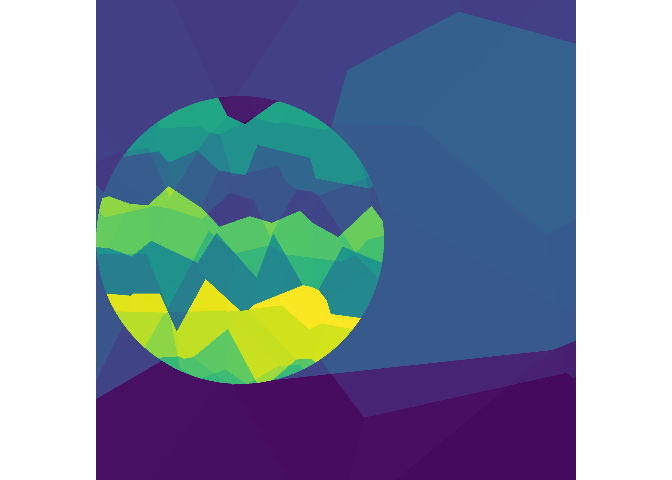
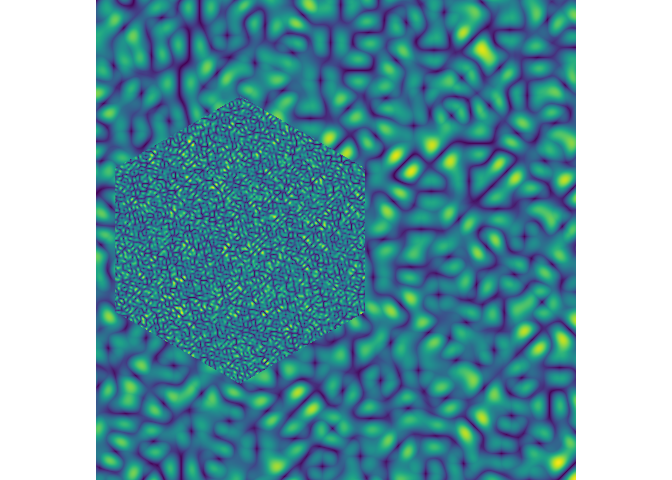
adds scope_hex function factory

diff --git a/docs/index.html b/docs/index.html
@@ -87,21 +87,31 @@
 <p>This is a basic example which shows you how to solve a common problem:</p>
 <div class="sourceCode" id="cb3"><pre class="r"><span class="fu"><a href="https://rdrr.io/r/base/library.html">library</a></span>(<span class="no">scopes</span>)
 
-<span class="no">dat</span> <span class="kw">&lt;-</span> <span class="fu"><a href="reference/scope_grid.html">scope_grid</a></span>(<span class="kw">inner</span> <span class="kw">=</span> <span class="fu"><a href="reference/scope_texture.html">scope_texture</a></span>(<span class="kw">frequency</span> <span class="kw">=</span> <span class="fl">10</span>))
+<span class="no">dat</span> <span class="kw">&lt;-</span> <span class="fu"><a href="reference/scope_grid.html">scope_grid</a></span>(
+  <span class="kw">border</span> <span class="kw">=</span> <span class="fu"><a href="reference/scope_hex.html">scope_hex</a></span>(),
+  <span class="kw">inner</span> <span class="kw">=</span> <span class="fu"><a href="reference/scope_texture.html">scope_texture</a></span>(
+    <span class="kw">noise</span> <span class="kw">=</span> <span class="kw pkg">ambient</span><span class="kw ns">::</span><span class="no"><a href="https://ambient.data-imaginist.com/reference/noise_simplex.html">gen_simplex</a></span>,
+    <span class="kw">frequency</span> <span class="kw">=</span> <span class="fl">50</span>
+  ),
+  <span class="kw">outer</span> <span class="kw">=</span> <span class="fu"><a href="reference/scope_texture.html">scope_texture</a></span>(
+    <span class="kw">noise</span> <span class="kw">=</span> <span class="kw pkg">ambient</span><span class="kw ns">::</span><span class="no"><a href="https://ambient.data-imaginist.com/reference/noise_simplex.html">gen_simplex</a></span>,
+    <span class="kw">frequency</span> <span class="kw">=</span> <span class="fl">10</span>
+  )
+)
 <span class="no">dat</span>
 <span class="co">#&gt; # A tibble: 4,000,000 x 7</span>
-<span class="co">#&gt;        x        y inside   outer   inner index color    </span>
-<span class="co">#&gt;    &lt;dbl&gt;    &lt;dbl&gt; &lt;lgl&gt;    &lt;dbl&gt;   &lt;dbl&gt; &lt;dbl&gt; &lt;chr&gt;    </span>
-<span class="co">#&gt;  1     0 0        FALSE  1.33e23 1.33e23   372 #423F85FF</span>
-<span class="co">#&gt;  2     0 0.000500 FALSE  1.33e23 1.33e23   372 #423F85FF</span>
-<span class="co">#&gt;  3     0 0.00100  FALSE  1.33e23 1.33e23   372 #423F85FF</span>
-<span class="co">#&gt;  4     0 0.00150  FALSE  1.33e23 1.33e23   372 #423F85FF</span>
-<span class="co">#&gt;  5     0 0.00200  FALSE  1.33e23 1.33e23   372 #423F85FF</span>
-<span class="co">#&gt;  6     0 0.00250  FALSE  1.33e23 1.33e23   372 #423F85FF</span>
-<span class="co">#&gt;  7     0 0.00300  FALSE  1.33e23 1.33e23   372 #423F85FF</span>
-<span class="co">#&gt;  8     0 0.00350  FALSE  1.33e23 1.33e23   372 #423F85FF</span>
-<span class="co">#&gt;  9     0 0.00400  FALSE  1.33e23 1.33e23   372 #423F85FF</span>
-<span class="co">#&gt; 10     0 0.00450  FALSE  1.33e23 1.33e23   372 #423F85FF</span>
+<span class="co">#&gt;        x        y inside  outer inner index color    </span>
+<span class="co">#&gt;    &lt;dbl&gt;    &lt;dbl&gt; &lt;lgl&gt;   &lt;dbl&gt; &lt;dbl&gt; &lt;dbl&gt; &lt;chr&gt;    </span>
+<span class="co">#&gt;  1     0 0        FALSE  -1.25  -1.25     1 #440154FF</span>
+<span class="co">#&gt;  2     0 0.000500 FALSE  -1.22  -1.25    21 #450558FF</span>
+<span class="co">#&gt;  3     0 0.00100  FALSE  -1.18  -1.25    41 #46085CFF</span>
+<span class="co">#&gt;  4     0 0.00150  FALSE  -1.15  -1.25    61 #470C5FFF</span>
+<span class="co">#&gt;  5     0 0.00200  FALSE  -1.12  -1.25    80 #471063FF</span>
+<span class="co">#&gt;  6     0 0.00250  FALSE  -1.09  -1.25   100 #481466FF</span>
+<span class="co">#&gt;  7     0 0.00300  FALSE  -1.05  -1.25   120 #481769FF</span>
+<span class="co">#&gt;  8     0 0.00350  FALSE  -1.02  -1.25   139 #481B6DFF</span>
+<span class="co">#&gt;  9     0 0.00400  FALSE  -0.991 -1.25   158 #481D6FFF</span>
+<span class="co">#&gt; 10     0 0.00450  FALSE  -0.959 -1.25   177 #482072FF</span>
 <span class="co">#&gt; # … with 3,999,990 more rows</span>
 
 <span class="fu"><a href="reference/scope_plot.html">scope_plot</a></span>(<span class="no">dat</span>)</pre></div>

diff --git a/docs/reference/scope_hex.html b/docs/reference/scope_hex.html
@@ -6,7 +6,7 @@
 <meta http-equiv="X-UA-Compatible" content="IE=edge">
 <meta name="viewport" content="width=device-width, initial-scale=1.0">
 
-<title>Border function — scope_circle • scopes</title>
+<title>Border function — scope_hex • scopes</title>
 
 
 <!-- jquery -->
@@ -39,7 +39,7 @@
 
 
 
-<meta property="og:title" content="Border function — scope_circle" />
+<meta property="og:title" content="Border function — scope_hex" />
 <meta property="og:description" content="Border function" />
 
 
@@ -110,29 +110,29 @@
     <div class="page-header">
     <h1>Border function</h1>
     <small class="dont-index">Source: <a href='https://github.com/djnavarro/scopes/blob/master/R/borders.R'><code>R/borders.R</code></a></small>
-    <div class="hidden name"><code>scope_circle.Rd</code></div>
+    <div class="hidden name"><code>scope_hex.Rd</code></div>
     </div>
 
     <div class="ref-description">
     <p>Border function</p>
     </div>
 
-    <pre class="usage"><span class='fu'>scope_circle</span>(<span class='kw'>x</span> <span class='kw'>=</span> <span class='fl'>0.3</span>, <span class='kw'>y</span> <span class='kw'>=</span> <span class='fl'>0.5</span>, <span class='kw'>r</span> <span class='kw'>=</span> <span class='fl'>0.3</span>)</pre>
+    <pre class="usage"><span class='fu'>scope_hex</span>(<span class='kw'>x</span> <span class='kw'>=</span> <span class='fl'>0.3</span>, <span class='kw'>y</span> <span class='kw'>=</span> <span class='fl'>0.5</span>, <span class='kw'>r</span> <span class='kw'>=</span> <span class='fl'>0.3</span>)</pre>
 
     <h2 class="hasAnchor" id="arguments"><a class="anchor" href="#arguments"></a>Arguments</h2>
     <table class="ref-arguments">
     <colgroup><col class="name" /><col class="desc" /></colgroup>
     <tr>
       <th>x</th>
-      <td><p>Origin of the circle</p></td>
+      <td><p>Origin of the hexagon</p></td>
     </tr>
     <tr>
       <th>y</th>
-      <td><p>Origin of the circle</p></td>
+      <td><p>Origin of the hexagon</p></td>
     </tr>
     <tr>
       <th>r</th>
-      <td><p>Radius of the circle</p></td>
+      <td><p>(Long) radius of the hexagon</p></td>
     </tr>
     </table>
 

diff --git a/docs/reference/index.html b/docs/reference/index.html
@@ -145,6 +145,12 @@
       </tr><tr>
         
         <td>
+          <p><code><a href="scope_hex.html">scope_hex()</a></code> </p>
+        </td>
+        <td><p>Border function</p></td>
+      </tr><tr>
+        
+        <td>
           <p><code><a href="scope_plot.html">scope_plot()</a></code> </p>
         </td>
         <td><p>Write scopes data to a png</p></td>

diff --git a/README.md b/README.md
@@ -34,21 +34,31 @@ This is a basic example which shows you how to solve a common problem:
 ``` r
 library(scopes)
 
-dat <- scope_grid(inner = scope_texture(frequency = 10))
+dat <- scope_grid(
+  border = scope_hex(), 
+  inner = scope_texture(
+    noise = ambient::gen_simplex,
+    frequency = 50
+  ),
+  outer = scope_texture(
+    noise = ambient::gen_simplex,
+    frequency = 10
+  )
+)
 dat
 #> # A tibble: 4,000,000 x 7
-#>        x        y inside   outer   inner index color    
-#>    <dbl>    <dbl> <lgl>    <dbl>   <dbl> <dbl> <chr>    
-#>  1     0 0        FALSE  1.33e23 1.33e23   372 #423F85FF
-#>  2     0 0.000500 FALSE  1.33e23 1.33e23   372 #423F85FF
-#>  3     0 0.00100  FALSE  1.33e23 1.33e23   372 #423F85FF
-#>  4     0 0.00150  FALSE  1.33e23 1.33e23   372 #423F85FF
-#>  5     0 0.00200  FALSE  1.33e23 1.33e23   372 #423F85FF
-#>  6     0 0.00250  FALSE  1.33e23 1.33e23   372 #423F85FF
-#>  7     0 0.00300  FALSE  1.33e23 1.33e23   372 #423F85FF
-#>  8     0 0.00350  FALSE  1.33e23 1.33e23   372 #423F85FF
-#>  9     0 0.00400  FALSE  1.33e23 1.33e23   372 #423F85FF
-#> 10     0 0.00450  FALSE  1.33e23 1.33e23   372 #423F85FF
+#>        x        y inside  outer inner index color    
+#>    <dbl>    <dbl> <lgl>   <dbl> <dbl> <dbl> <chr>    
+#>  1     0 0        FALSE  -1.25  -1.25     1 #440154FF
+#>  2     0 0.000500 FALSE  -1.22  -1.25    21 #450558FF
+#>  3     0 0.00100  FALSE  -1.18  -1.25    41 #46085CFF
+#>  4     0 0.00150  FALSE  -1.15  -1.25    61 #470C5FFF
+#>  5     0 0.00200  FALSE  -1.12  -1.25    80 #471063FF
+#>  6     0 0.00250  FALSE  -1.09  -1.25   100 #481466FF
+#>  7     0 0.00300  FALSE  -1.05  -1.25   120 #481769FF
+#>  8     0 0.00350  FALSE  -1.02  -1.25   139 #481B6DFF
+#>  9     0 0.00400  FALSE  -0.991 -1.25   158 #481D6FFF
+#> 10     0 0.00450  FALSE  -0.959 -1.25   177 #482072FF
 #> # … with 3,999,990 more rows
 
 scope_plot(dat)
